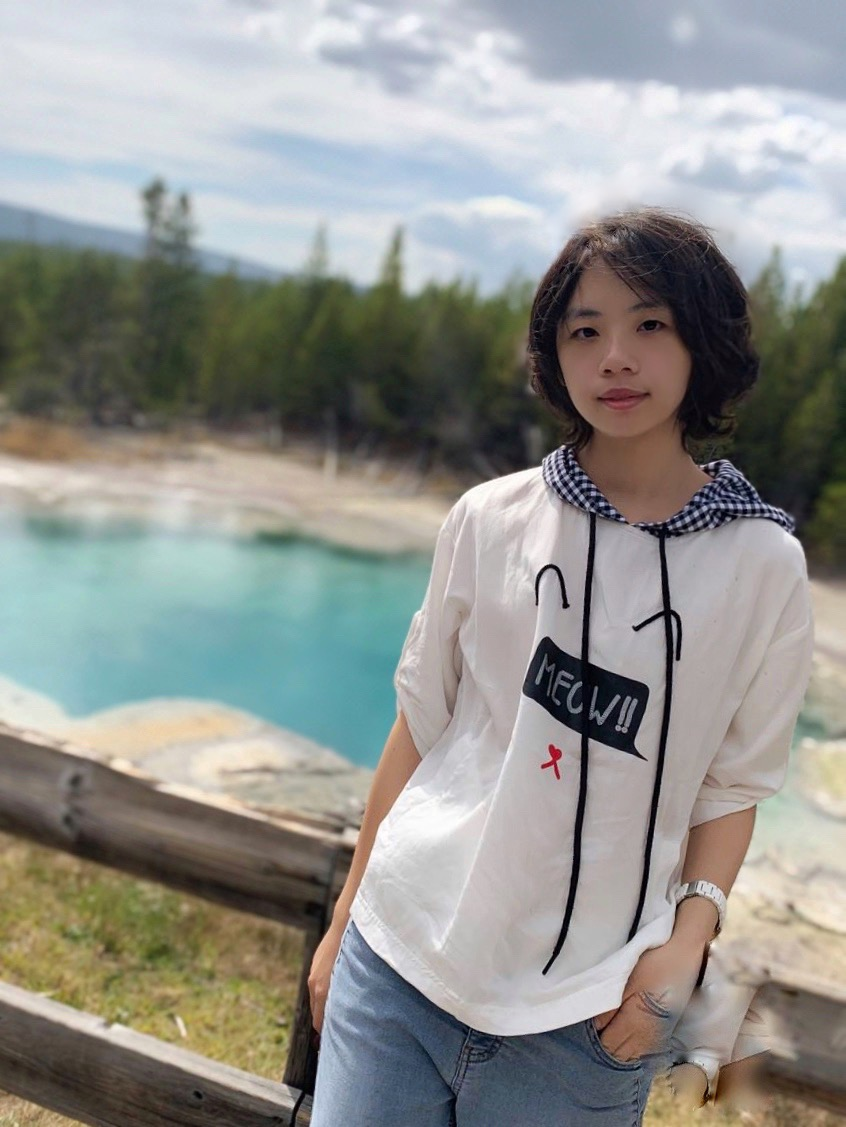
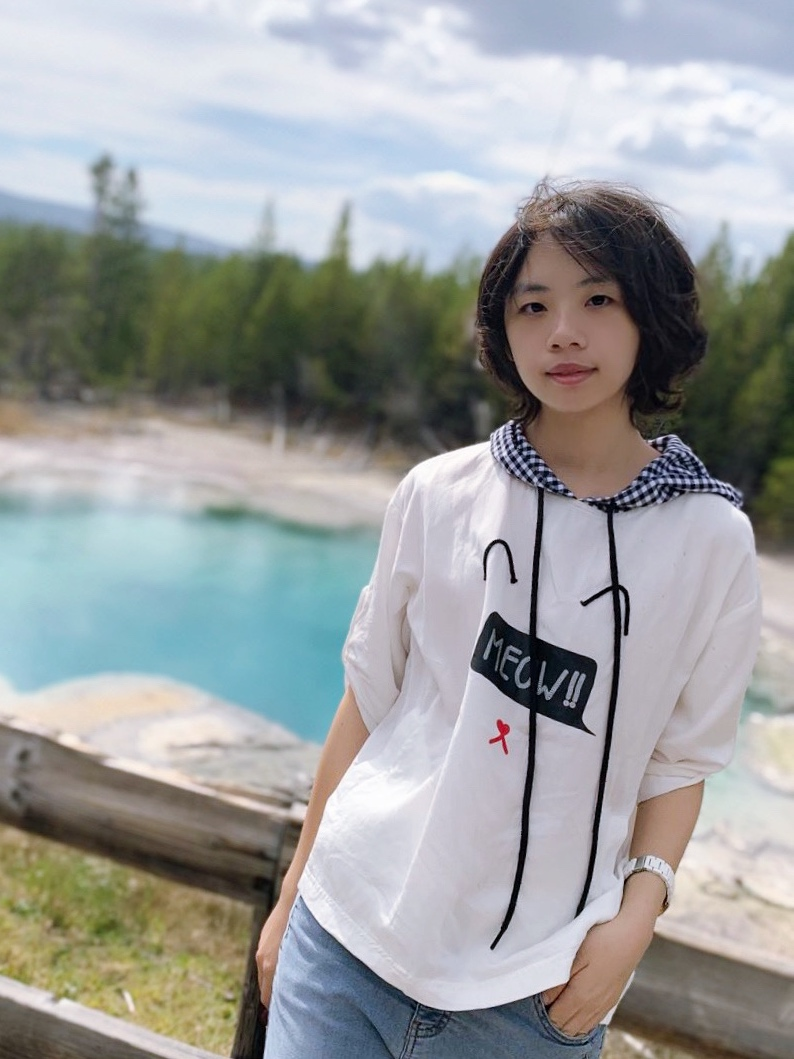
Update photo and email

diff --git a/pages/about.md b/pages/about.md
@@ -1,3 +1,5 @@
 Hi, I’m Jiaxin Lin. I’m currently a graduate student at the University of Wisconsin Madison, major in Computer Science. I was graduated from Beihang University, Beijing in 2019. I am now a part of the [Wisconsin Internet Systems Research (WISR)](http://wisr.cs.wisc.edu/) Lab, and my adviser is [Aditya Akella](http://pages.cs.wisc.edu/~akella/). Specifically, I am interested in **computer network** and **system**, especially in programmable hardwares, data center networks, big data system, and SmartNIC.
 
 Additionly, I love digital painting, you can see [my artwork on Pixiv](#section-artwork).
+
+Contact: jlin357 AT wisc.edu
